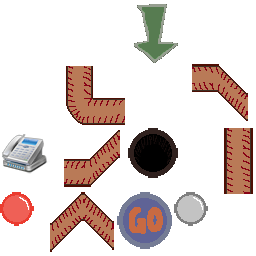
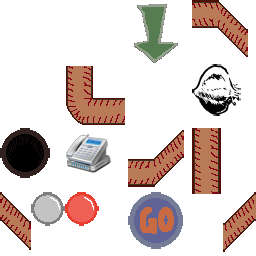
Update the game slightly

diff --git a/scripts/objRefTable.js b/scripts/objRefTable.js
@@ -18,6 +18,7 @@ self.C3_GetObjectRefTable = function () {
 		C3.Plugins.Sprite.Acts.SetPos,
 		C3.Plugins.Sprite.Exps.X,
 		C3.Plugins.Sprite.Exps.Y,
+		C3.Plugins.Sprite.Acts.RotateClockwise,
 		C3.Plugins.Touch.Cnds.IsTouchingObject,
 		C3.Plugins.System.Acts.RestartLayout,
 		C3.Plugins.System.Acts.SetVar,
@@ -32,7 +33,9 @@ self.C3_GetObjectRefTable = function () {
 		C3.Plugins.System.Acts.AddVar,
 		C3.Plugins.Sprite.Cnds.OnCollision,
 		C3.Plugins.Sprite.Acts.Destroy,
-		C3.Plugins.Text.Acts.SetPos
+		C3.Plugins.Text.Acts.SetPos,
+		C3.Plugins.Sprite.Cnds.IsOverlapping,
+		C3.Behaviors.Physics.Acts.SetVelocity
 	];
 };
 self.C3_JsPropNameTable = [
@@ -60,6 +63,10 @@ self.C3_JsPropNameTable = [
 	{RestartPlease: 0},
 	{Batcave: 0},
 	{Telephone: 0},
+	{spinner: 0},
+	{Garlic: 0},
+	{Pool: 0},
+	{Sprite: 0},
 	{ballVelocity: 0}
 ];
 
@@ -83,5 +90,9 @@ self.InstanceType = {
 	Audio: class extends self.IInstance {},
 	RestartPlease: class extends self.ITextInstance {},
 	Batcave: class extends self.ISpriteInstance {},
-	Telephone: class extends self.ISpriteInstance {}
+	Telephone: class extends self.ISpriteInstance {},
+	spinner: class extends self.ISpriteInstance {},
+	Garlic: class extends self.ISpriteInstance {},
+	Pool: class extends self.ISpriteInstance {},
+	Sprite: class extends self.ISpriteInstance {}
 }

diff --git a/scripts/c3runtime.js b/scripts/c3runtime.js
@@ -1397,6 +1397,7 @@ self.C3_ExpressionFuncs = [
 			const n0 = p._GetNode(0);
 			return () => n0.ExpObject();
 		},
+		() => 3,
 		p => {
 			const n0 = p._GetNode(0);
 			const n1 = p._GetNode(1);
@@ -1421,7 +1422,9 @@ self.C3_ExpressionFuncs = [
 		},
 		() => 4,
 		() => 1870,
-		() => 167
+		() => 167,
+		() => 6,
+		() => 10
 ];
 
 
